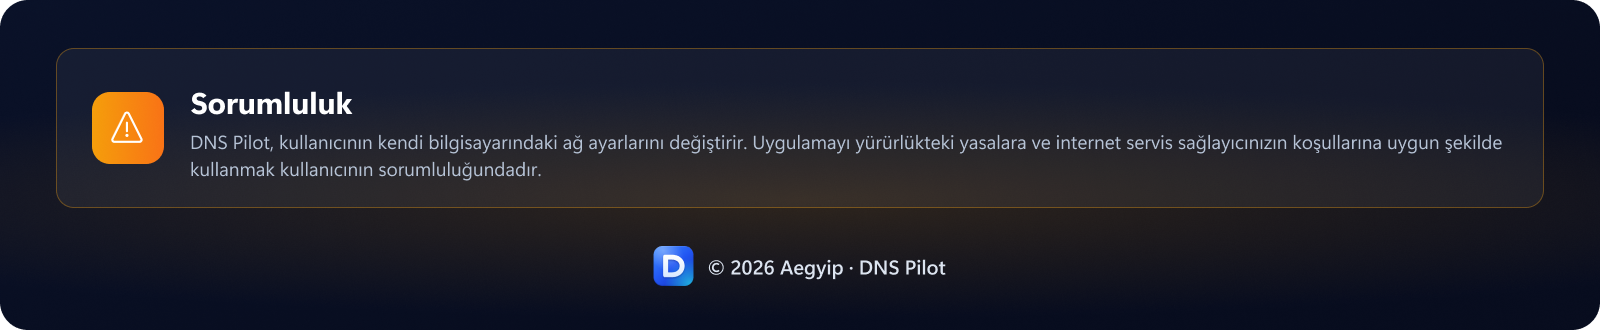
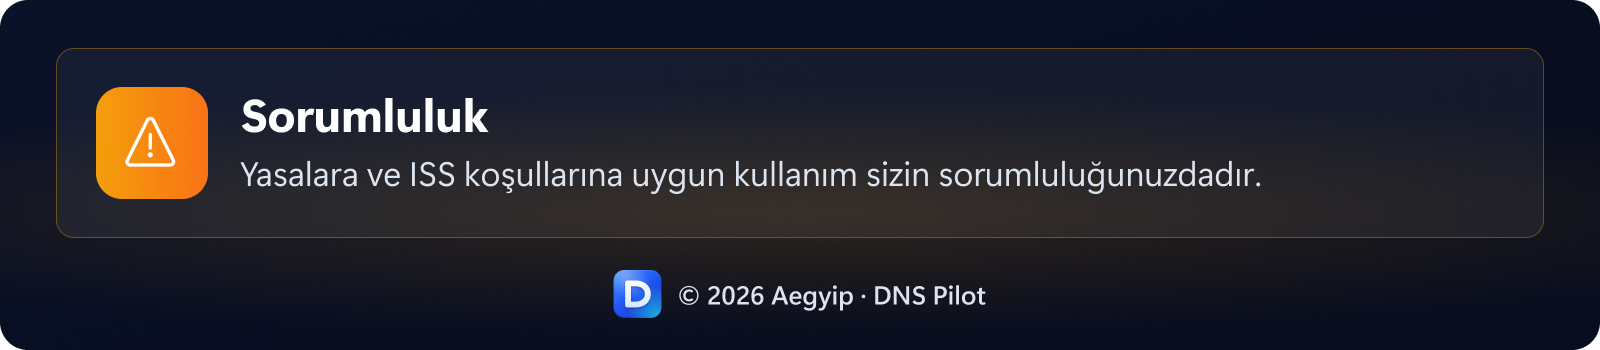
README: shorter, larger disclaimer

diff --git a/README.md b/README.md
@@ -149,5 +149,5 @@ DNS Pilot hiçbir kişisel veri toplamaz ve geliştiriciye veri göndermez. Seç
 ## ⚠ Sorumluluk
 
 <p align="center">
-  <img src="docs/img/sorumluluk.png" alt="DNS Pilot, kullanıcının kendi bilgisayarındaki ağ ayarlarını değiştirir. Uygulamayı yürürlükteki yasalara ve internet servis sağlayıcınızın koşullarına uygun şekilde kullanmak kullanıcının sorumluluğundadır. © 2026 Aegyip · DNS Pilot" width="100%">
+  <img src="docs/img/sorumluluk.png" alt="Sorumluluk: Yasalara ve ISS koşullarına uygun kullanım sizin sorumluluğunuzdadır. © 2026 Aegyip · DNS Pilot" width="100%">
 </p>
